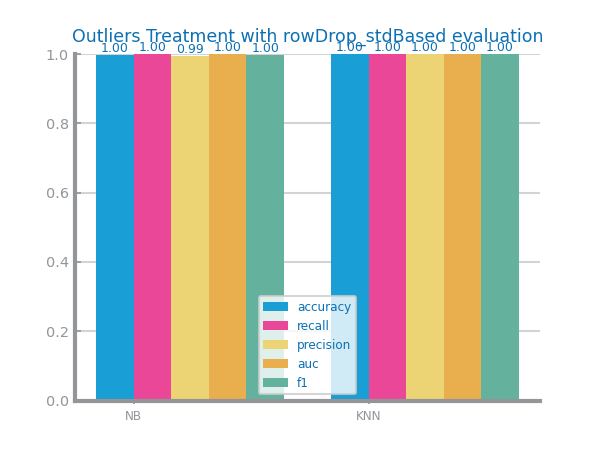
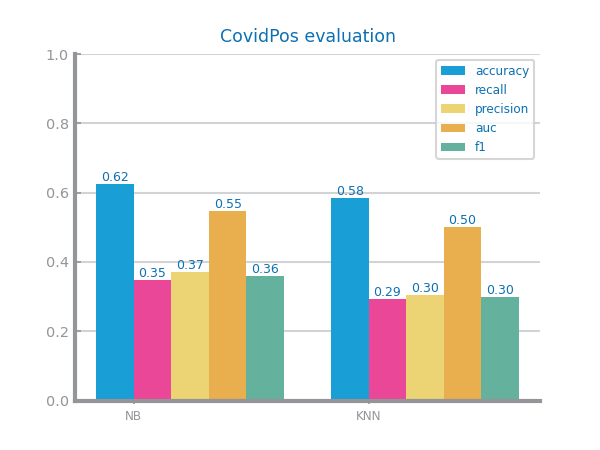
done outliers but still errors in scaling

diff --git a/dataset_1/2-data_preparation/code/outliers.py b/dataset_1/2-data_preparation/code/outliers.py
@@ -1,11 +1,29 @@
 from pandas import read_csv, DataFrame, Series
 from matplotlib.pyplot import figure, savefig, close, show
 from dslabs_functions import determine_outlier_thresholds_for_var, plot_multibar_chart, evaluate_approach
+from sklearn.model_selection import train_test_split
 
+def outliers_evaluation(data_filename: str, strategy: str):
+    data: DataFrame = read_csv(data_filename)
+
+    train_data, test_data = train_test_split(data, test_size=0.2, random_state=42)
+    ## Evaluate Approach
+    file_tag = "CovidPos"
+    target = "CovidPos"
+
+    figure()
+    eval: dict[str, list] = evaluate_approach(train_data, test_data, target=target, metric="recall")
+    plot_multibar_chart(
+        ["NB", "KNN"], eval, title=f"{file_tag} evaluation", percentage=True)
+
+    savefig(f"../images/CovidPos_outliers_treat_{strategy}.png")
+    show()
+    
+    
 target = "CovidPos"
 
 
-data: DataFrame = read_csv("../data/ccs_mvi_fill_frequent_shuffle.csv")
+data: DataFrame = read_csv("../data/ccs_mvi_fill_frequent.csv")
 # Approach 1 - Dropping outliers (std_based = true)
 print(f"Data before dropping outliers: {data.shape}")
 data_outliers_rowDrop: DataFrame = data.copy(deep=True)
@@ -14,8 +32,9 @@ for var in data.columns:
     top_threshold, bottom_threshold = determine_outlier_thresholds_for_var(summary5[var])
     outliers: Series = data_outliers_rowDrop[(data_outliers_rowDrop[var] > top_threshold) | (data_outliers_rowDrop[var] < bottom_threshold)]
     data_outliers_rowDrop.drop(outliers.index, axis=0, inplace=True)
-data_outliers_rowDrop.to_csv("../data/CovidPos_outliers_rowDrop_stdBased.csv", index=False)
+data_outliers_rowDrop.to_csv("../data/CovidPos_outliers_rowDrop_stdBased.csv")
 print(f"Data after dropping outliers: {data_outliers_rowDrop.shape}")
+outliers_evaluation("../data/CovidPos_outliers_rowDrop_stdBased.csv", "rowDrop_stdBased")
 
 
 # Approach 2 - Dropping outliers (std_based = false)
@@ -26,39 +45,29 @@ for var in data.columns:
     top_threshold, bottom_threshold = determine_outlier_thresholds_for_var(summary5[var], std_based=False)
     outliers: Series = data_outliers_rowDrop[(data_outliers_rowDrop[var] > top_threshold) | (data_outliers_rowDrop[var] < bottom_threshold)]
     data_outliers_rowDrop.drop(outliers.index, axis=0, inplace=True)
-data_outliers_rowDrop.to_csv("../data/CovidPos_outliers_rowDrop_NotStdBased.csv", index=False)
+data_outliers_rowDrop.to_csv("../data/CovidPos_outliers_rowDrop_NotStdBased.csv")
 print(f"Data after dropping outliers: {data_outliers_rowDrop.shape}")
+outliers_evaluation("../data/CovidPos_outliers_rowDrop_NotStdBased.csv", "rowDrop_NotStdBased")
 
 
 # Approach 3 - Replacing Outliers (if > than max or < min) with fixed values - using the median
+print(f"Data before replacing outliers: {data.shape}")
 data_outliers_rep_fixedMedian: DataFrame = data.copy(deep=True)
 for var in data.columns:
     top, bottom = determine_outlier_thresholds_for_var(summary5[var])
     median: float = data_outliers_rep_fixedMedian[var].median()
     data_outliers_rep_fixedMedian[var] = data_outliers_rep_fixedMedian[var].apply(lambda x: median if x > top or x < bottom else x)
-data_outliers_rep_fixedMedian.to_csv("../data/CovidPos_outliers_rep_fixed_median.csv", index=True)
+data_outliers_rep_fixedMedian.to_csv("../data/CovidPos_outliers_rep_fixed_median.csv")
+print(f"Data after replacing outliers: {data_outliers_rep_fixedMedian.shape}")
+outliers_evaluation("../data/CovidPos_outliers_rep_fixed_median.csv", "rep_fixed_median")
+
 
 # Approach 4 - Truncating outliers with the max and min
+print(f"Data before truncating outliers: {data.shape}")
 data_outliers_trunc: DataFrame = data.copy(deep=True)
 for var in data.columns:
     top, bottom = determine_outlier_thresholds_for_var(summary5[var])
     data_outliers_trunc[var] = data_outliers_trunc[var].apply(lambda x: top if x > top else bottom if x < bottom else x)
-data_outliers_trunc.to_csv("../data/CovidPos_outliers_trunc_minmax.csv", index=True)
-
-
-
-def outliers_evaluation(data_filename: str, strategy: str):
-    data: DataFrame = read_csv(data_filename)
-    figure()
-    eval: dict[str, list] = evaluate_approach(data.head(int(data.shape[0]*0.7)),
-                                              data.tail(int(data.shape[0]*0.3)),
-                                              target=target, metric="recall")
-    plot_multibar_chart(["NB", "KNN"], eval, title=f"Outliers Treatment with {strategy} evaluation", percentage=True)
-    savefig(f"../images/CovidPos_outliers_treat_{strategy}.png")
-    show()
-    
-# Evaluate the different approaches
-outliers_evaluation("../data/CovidPos_outliers_rowDrop_stdBased.csv", "rowDrop_stdBased")
-outliers_evaluation("../data/CovidPos_outliers_rowDrop_NotStdBased.csv", "rowDrop_NotStdBased")
-outliers_evaluation("../data/CovidPos_outliers_rep_fixed_median.csv", "rep_fixed_median")
+data_outliers_trunc.to_csv("../data/CovidPos_outliers_trunc_minmax.csv")
+print(f"Data after truncating outliers: {data_outliers_trunc.shape}")
 outliers_evaluation("../data/CovidPos_outliers_trunc_minmax.csv", "truncating_minmax")

diff --git a/dataset_1/2-data_preparation/code/scaling.py b/dataset_1/2-data_preparation/code/scaling.py
@@ -1,43 +1,63 @@
 from pandas import read_csv, DataFrame, Series
 from sklearn.preprocessing import StandardScaler, MinMaxScaler
 from matplotlib.pyplot import figure, savefig, close, show, subplots
+from dslabs_functions import  plot_multibar_chart, evaluate_approach
+from sklearn.model_selection import train_test_split
 
-data_filename: str = "../data/CovidPos_outliers_rowDrop_NotStdBased.csv"
+
+def scaling_evaluation(data_filename: str, strategy: str, target: str):
+    data: DataFrame = read_csv(data_filename)
+
+    train_data, test_data = train_test_split(data, test_size=0.2, random_state=42)
+    ## Evaluate Approach
+    file_tag = "CovidPos"
+    target = "CovidPos"
+
+    figure()
+    eval: dict[str, list] = evaluate_approach(train_data, test_data, target=target, metric="recall")
+    plot_multibar_chart(
+        ["NB", "KNN"], eval, title=f"{file_tag} evaluation", percentage=True)
+
+    savefig(f"../images/CovidPos_scaling_treat_{strategy}.png")
+    show()
+
+data_filename: str = "../data/CovidPos_outliers_trunc_minmax.csv"
 file_tag: str = "CovidPos"
 target = "CovidPos"
 
 data: DataFrame = read_csv(data_filename)
+#scaling_evaluation(data_filename, "Original", target)
 
 # Approach 1 - Standard scaling (z-score transformation)
 vars: list[str] = data.columns.to_list()
-target_data: Series = data.pop(file_tag)
+vars.remove(target)
+target_data: Series = data.pop(target)
 
-transf: StandardScaler = StandardScaler(with_mean=True, with_std=True, copy=True).fit(
-    data
-)
+transf: StandardScaler = StandardScaler(with_mean=True, with_std=True, copy=True).fit(data)
 df_zscore = DataFrame(transf.transform(data), index=data.index)
-df_zscore[file_tag] = target_data
 df_zscore.columns = vars
-df_zscore.to_csv(f"../data/{file_tag}_scaled_zscore.csv", index="ID")
+df_zscore[target] = target_data
+df_zscore.to_csv(f"../data/CovidPos_scaled_zscore.csv", index=False)
 print(f"Data after standard scaling: {df_zscore.head(20)}")
+#print(get_variable_types(df_zscore))
+scaling_evaluation("../data/CovidPos_scaled_zscore.csv", "Z-Score", target)
 
 # Approach 2 - Minmax Scaler [0,1]
 transf: MinMaxScaler = MinMaxScaler(feature_range=(0, 1), copy=True).fit(data)
 df_minmax = DataFrame(transf.transform(data), index=data.index)
 df_minmax[target] = target_data
 df_minmax.columns = vars
-df_minmax.to_csv(f"../data/{file_tag}_scaled_minmax.csv", index="id")
+df_minmax.to_csv(f"../data/CovidPos_scaled_minmax.csv", index=False)
 print(f"Data after minmax scaling: {df_minmax.head(20)}")
+#print(get_variable_types(df_minmax))
 
-# Evaluate the different approaches
-fig, axs = subplots(1, 3, figsize=(25, 10), squeeze=False)
-axs[0, 0].set_title("Original data")
-data.boxplot(ax=axs[0, 0])
-axs[0, 1].set_title("Z-score normalization")
-df_zscore.boxplot(ax=axs[0, 1])
-# axs[0, 2].set_title("MinMax2 normalization")
-# df_minmaxRange.boxplot(ax=axs[0, 2])
-axs[0, 2].set_title("MinMax normalization")
-df_minmax.boxplot(ax=axs[0, 2])
-savefig(f"../images/CovidPos_scaling.png")
-show()
+#Approach 2 - Minmax Scaler2 [0,10]
+transf: MinMaxScaler = MinMaxScaler(feature_range=(-1, 1), copy=True).fit(data)
+df_minmaxRange = DataFrame(transf.transform(data), index=data.index)
+df_minmaxRange[target] = target_data
+df_minmaxRange.columns = vars
+df_minmaxRange.to_csv(f"../data/CovidPos_scaled_minmaxRange.csv", index="id")
+print(f"Data after minmax scaling: {df_minmaxRange.head(20)}")
+
+scaling_evaluation("../data/CovidPos_scaled_minmaxRange.csv", "MinMax", target)
+
